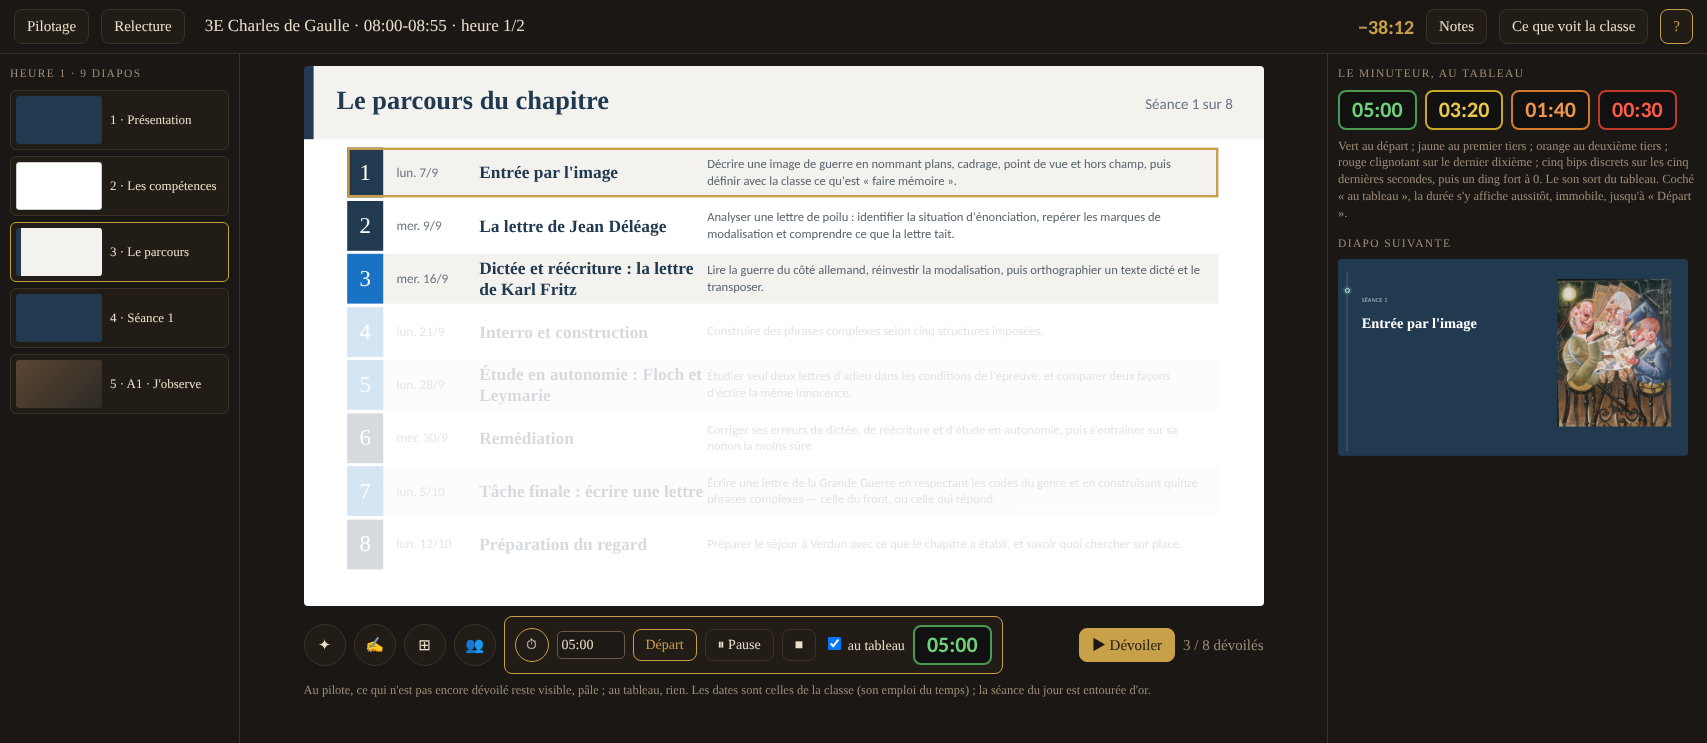
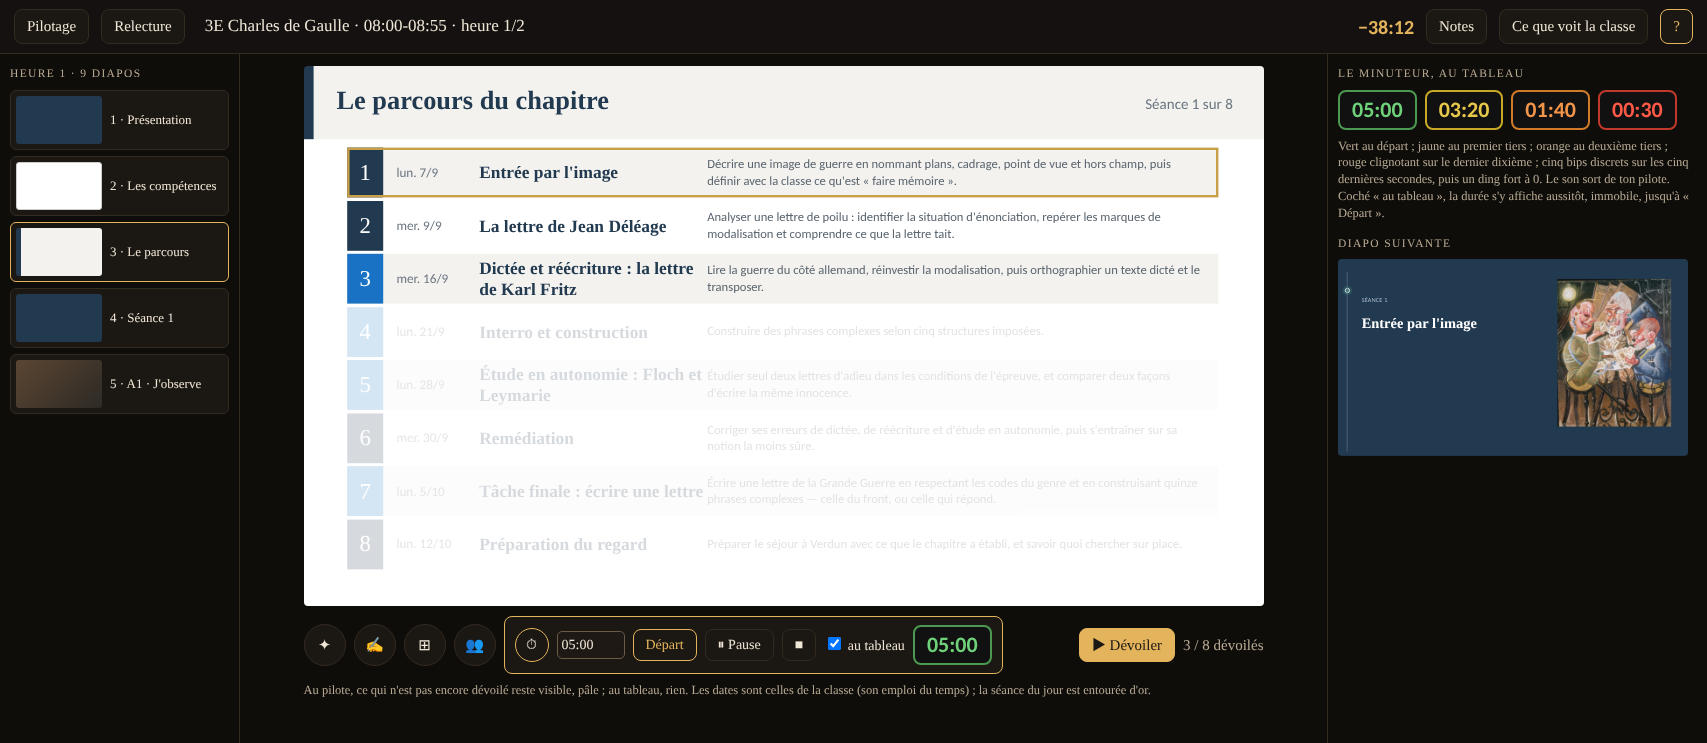
C13 tour 352 : les vraies couleurs du site ; captures refaites ; le son du pilote
Claude-Session: https://claude.ai/code/session_01FmzsMHBMC1WuguNe8MTJi3

Changed region(s): [[0.7762, 0.2167, 0.9936, 0.3096], [0.621, 0.8358, 0.7141, 0.8977]]

diff --git a/MANDATS/CANONS-DIAPOS/captures-29-10/site.html b/MANDATS/CANONS-DIAPOS/captures-29-10/site.html
@@ -1,9 +1,9 @@
 <!doctype html>
 <html lang="fr"><head><meta charset="utf-8"><title>Diapos d'ouverture dans le site</title>
 <style>
-:root{--f:#1b1714;--p:#221c17;--b:#3d3127;--or:#c9a04a;--t:#eadfca;--m:#9d8d77;--v:#6fae6a;--r:#c0573f;--nuit:#223a50;--clair:#a9b8c6;--teal:#3d7a74;--vif:#1a72c4}
-*{box-sizing:border-box}html,body{margin:0;height:100%;background:var(--f);color:var(--t);font:15px/1.35 Georgia,"Liberation Serif",serif}
-.haut{display:flex;align-items:center;gap:12px;padding:9px 14px;border-bottom:1px solid var(--b);height:54px}
+:root{--f:#0f0d0a;--p:#1b1712;--b:#332a20;--or:#e4b45c;--t:#efe6d6;--m:#b9ab94;--v:#6fae6a;--r:#c0573f;--nuit:#223a50;--clair:#a9b8c6;--teal:#3d7a74;--vif:#1a72c4}
+*{box-sizing:border-box}html,body{margin:0;height:100%;background:var(--f);color:var(--t);font:15px/1.35 "EB Garamond",Georgia,"Liberation Serif",serif}
+.haut{display:flex;align-items:center;gap:12px;padding:9px 14px;border-bottom:1px solid var(--b);height:54px;background:#141110}
 .btn{border:1px solid var(--b);background:var(--p);color:var(--t);border-radius:8px;padding:6px 12px;font:inherit;white-space:nowrap}
 .btn.or{border-color:var(--or);color:var(--or)}.btn.on{background:var(--or);color:#1b1714;border-color:var(--or)}
 .m{color:var(--m)}.esp{flex:1}
@@ -110,7 +110,7 @@
   <div class="tit">Le minuteur, au tableau</div>
   <div style="display:flex;gap:8px;flex-wrap:wrap;align-items:center">
    <span class="chr">05:00</span><span class="chr" style="border-color:#c9a827;color:#e8c84a">03:20</span><span class="chr" style="border-color:#d07a2a;color:#f0954a">01:40</span><span class="chr" style="border-color:#c0392b;color:#ff5a48">00:30</span></div>
-  <div class="note">Vert au départ ; jaune au premier tiers ; orange au deuxième tiers ; rouge clignotant sur le dernier dixième ; cinq bips discrets sur les cinq dernières secondes, puis un ding fort à 0. Le son sort du tableau. Coché « au tableau », la durée s'y affiche aussitôt, immobile, jusqu'à « Départ ».</div>
+  <div class="note">Vert au départ ; jaune au premier tiers ; orange au deuxième tiers ; rouge clignotant sur le dernier dixième ; cinq bips discrets sur les cinq dernières secondes, puis un ding fort à 0. Le son sort de ton pilote. Coché « au tableau », la durée s'y affiche aussitôt, immobile, jusqu'à « Départ ».</div>
   <div class="tit" style="margin-top:14px">Diapo suivante</div>
   <div class="cadre" style="width:350px;height:197px"><div class="d p4" style="transform:scale(.21875)"><div class="pt"></div><div class="fil"></div><div class="g"><div class="k">SÉANCE 1</div><h1 class="serif">Entrée par l'image</h1></div><img src="img-seance.png"></div></div>
  </div>

diff --git a/MANDATS/PROFIL-CLASSE/captures-29-10/profil-classe.html b/MANDATS/PROFIL-CLASSE/captures-29-10/profil-classe.html
@@ -1,9 +1,9 @@
 <!doctype html>
 <html lang="fr"><head><meta charset="utf-8"><title>Profil de la classe — captures construites</title>
 <style>
-:root{--f:#1b1714;--p:#221c17;--p2:#2a221b;--b:#3d3127;--or:#c9a04a;--t:#eadfca;--m:#9d8d77;--v:#6fae6a;--r:#c0573f;--g:#5a5048}
-*{box-sizing:border-box}html,body{margin:0;height:100%;background:var(--f);color:var(--t);font:15px/1.35 Georgia,"Liberation Serif",serif}
-.haut{display:flex;align-items:center;gap:14px;padding:10px 16px;border-bottom:1px solid var(--b);height:58px}
+:root{--f:#0f0d0a;--p:#1b1712;--p2:#241e17;--b:#332a20;--or:#e4b45c;--t:#efe6d6;--m:#b9ab94;--v:#6fae6a;--r:#c0573f;--g:#5a5048}
+*{box-sizing:border-box}html,body{margin:0;height:100%;background:var(--f);color:var(--t);font:15px/1.35 "EB Garamond",Georgia,"Liberation Serif",serif}
+.haut{display:flex;align-items:center;gap:14px;padding:10px 16px;border-bottom:1px solid var(--b);height:58px;background:#141110}
 .btn{border:1px solid var(--b);background:var(--p);color:var(--t);border-radius:8px;padding:7px 13px;font:inherit;white-space:nowrap}
 .btn.or{border-color:var(--or);color:var(--or)}.btn.plein{background:var(--or);color:#1b1714;border-color:var(--or)}
 h1{font-size:21px;margin:0;font-weight:normal}h1 small{color:var(--m);font-size:14px;margin-left:8px}

diff --git a/MANDATS/INTEGRATION-DEROULE/CONTRAT.md b/MANDATS/INTEGRATION-DEROULE/CONTRAT.md
@@ -395,6 +395,6 @@ Puis il continue sans attendre : il code ce qui n'est pas contesté ; ce qui est
 67. **Les diapos d'ouverture au canon (Paul, 29/10 09:54, trois images ; 10:07 : « C'est surtout l'UI qu'il faut reproduire au mieux donc ce sont de nouveaux types de diapo à créer et le prompt d'injection à adapter. Oui à tout après, sauf 996, la phrase élève, pas l'intitulé officiel évidemment » ; C13 989-997).** Les canons : `MANDATS/CANONS-DIAPOS/` (1 la présentation du chapitre, 2 les compétences du chapitre, 3 le parcours du chapitre ; le canon de la séance est à venir, 997). (1) **De nouveaux types de diapo**, qui reproduisent l'interface du canon au plus près, posés par le site comme les diapos d'ouverture de §12.62 (3), qu'ils remplacent : hors activité, 0 minute, retirables, modifiables (Paul écrit dedans ; une fois modifiée, la diapo est à lui). (2) **La présentation du chapitre** : fond bleu nuit ; « Chapitre n — niveau » ; le titre ; la question du chapitre ; l'entrée du programme et les dates ; l'image du chapitre à droite, pleine hauteur, posée par Paul sur la diapo. (3) **Les compétences du chapitre** : par domaine, chacun sa couleur (Lire, Écrire, La langue, La culture et l'oral), séance par séance (S1 à Sn), majeure (foncé) ou mineure (clair) ; chaque compétence nommée par **sa phrase d'élève** (`libelleEleve`), jamais l'intitulé officiel (996 ; 13 · 91). (4) **Le parcours du chapitre** : « Séance n sur N » ; chaque séance numérotée, son titre, sa phrase ; **les séances évaluées en bleu vif** (995). (5) **Le prompt d'injection** (`MANDATS/PROMPT-INJECTION/`) écrit la phrase de chaque séance, met la compétence majeure de chaque séance en premier, et marque les séances évaluées ; l'import les lit. (6) **Les dates** : calculées par l'emploi du temps de la classe dans la copie de classe ; dans l'Atelier, « selon la classe » (994). (7) **Début de séance** (canon `4-seance.png`, Paul 10:17) : fond bleu nuit ; le fil vertical à gauche avec son point ; « SÉANCE n » ; le titre ; un trait ; « Objectif : » et la phrase de la séance ; « COMPÉTENCES DE LA SÉANCE » et n carrés (la séance du jour allumée) ; les compétences de la séance, la majeure en gras, chacune son carré de la couleur de son domaine (foncé la majeure, clair les mineures), nommées par la phrase d'élève ; l'image de la séance à droite, posée par Paul. Captures construites : `MANDATS/CANONS-DIAPOS/captures-29-10/` (Paul, 10:17 : « je veux d'abord des captures construites de ce que ça donnerait »). 13 · 91 (la phrase d'élève, aussi sur la feuille sommaire) part avec ce morceau. (8) **Proposé (C13 1016-1020, Paul 10:28 : « éventuellement de me proposer de créer d'autres fonctionnalités pour supporter ces nouveaux types de diapos »)** : le dévoilement au clic (le parcours ligne par ligne, les compétences domaine par domaine, la séance : l'objectif puis les compétences une à une ; seul le fil de progression bouge de lui-même) ; dans la copie de classe, la date de chaque séance pour la classe, la séance du jour entourée d'or, les séances faites cochées ; la carte « Ce que la diapo déclare » montre les champs de ces types (titre, objectif, la majeure ★, séance évaluée, image) — ce qui s'y change change le chapitre et la feuille sommaire ; l'image du chapitre et de chaque séance choisie une fois (clé USB ou en ligne), reprise partout ; en fin de chapitre, « Les compétences du chapitre » en bilan pour la classe (cases jouées cochées). Captures dans le site : `MANDATS/CANONS-DIAPOS/captures-29-10/6-atelier-debut-de-seance.png`, `7-pilotage-parcours-minuteur.png`.
 68. **Annuler une heure lancée par erreur (Paul, 29/10 09:54 : « imaginons que je lance une heure pas au bon moment, il faut que je puisse la fermer et qu'elle ne compte pas comme jouée ni rien du tout. le site oublierait tout ce que j'y ai fait » ; C13 990-991, « Oui à tout » 10:07).** Dans le pilotage, « Annuler cette heure », jusqu'à la clôture, avec une confirmation qui dit ce qui sera oublié. Le site oublie tout ce que l'heure a écrit : la copie de cette heure, le journal, le récit, la participation, les absents, l'heure en cours (`/site/cours_actif`), la scène du tableau distant ; l'emploi du temps ne bouge pas (l'heure ne compte pas comme jouée) ; le tableau distant revient à l'horloge. La réactivation construite à la clôture d'avant reste. « Ce que la classe a vu ne change plus » ne vaut pas pour une heure annulée. Infobulle pour Paul. Banc par le geste, mode test et heure réelle sur faux hub.
 69. **La relecture dans le profil de la classe (Paul, 29/10 09:54 ; C13 989, « Oui » 10:07).** « Relire l'heure » (la confirmation de clôture, le pilotage d'une heure close) ouvre le profil de la classe sur cette heure : le récit, ce qui s'est passé, le papier, la revue du chapitre pour cette classe. Avec le profil de la classe (`MANDATS/PROFIL-CLASSE/`, captures du 29/10).
-70. **Le minuteur au tableau (Paul, 29/10 10:17 : « le chrono au tableau. actuellement c'est une bande en bas de l'écran. ça ne doit pas être ça, mais être en haut à droite du tableau, en or et noir. […] il y a un lag entre le pilotage et le tableau distant (typiquement sur le chrono au tableau, ça impacte forcément parce que trois secondes sont toujours mangées). […] dès que je clique sur au tableau, ça doit s'afficher au tableau, même si ce n'est pas parti. […] il manque une option de pause » ; C13 1002-1007).** Mesuré dans la ⑨ : le minuteur au tableau est le texte « ⏱ mm:ss » du bandeau (`S.bandeau`), recalculé par le pilote chaque seconde et renvoyé (`dr_minuteurTic` → `pousser`, `dr_sceneAuto` 250 ms) ; le tableau distant lit la scène toutes les 0,9 s (`dr_tabSonder`) ; « au tableau » ne fait rien tant que le minuteur n'est pas parti (`onchange` sans `DR_CL.minut`) ; pas de pause (Départ, ■). (1) En haut à droite du tableau, chiffres or sur fond noir, aucun mot ; plus de bandeau. (2) « au tableau » coché : la durée réglée s'affiche aussitôt, immobile ; « Départ » la fait courir. (3) « ⏸ Pause » / « ▶ Reprendre » au pilote ; au tableau, les chiffres s'arrêtent. (4) Le pilote envoie une fois la fin, la durée et la pause ; chaque tableau compte avec sa propre horloge, recalée sur celle du pilote. (6) **Un seul minuteur, sous la diapo** (Paul, 10:20 : « il y a un doublon: le chrono en bas du pilotage, et le chrono en haut!! celui d'en bas met 7 minutes instantanés » ; 13 · 92) : le ⏱ sous la diapo (`#bchrono`) devient le vrai minuteur (durée, Départ, Pause, au tableau, ■) ; le ⏱ de l'en-tête (`#dr-minut-b`) et le « ⏱ 07:00 » en dur (`basculerChrono`) tombent. (7) **Les couleurs et le son** (Paul, 10:28 : « en fonction du temps donné au chrono, il doit être en vert au début, puis passer en jaune à un tiers du temps, puis orange, puis rouge clignotant, et sonner les 5 dernières secondes discrètement, puis un ding fort sur la fin arrivé au 0 ») : vert, jaune au premier tiers, orange au deuxième tiers, rouge clignotant sur le dernier dixième (proposé, C13 1013) ; cinq bips discrets sur les cinq dernières secondes, un ding fort à 0 ; le son sort du tableau (le navigateur exige un clic sur la page du tableau avant tout son : le clic de la clé USB, ou un clic n'importe où). (5) Le tableau distant écoute le hub en continu (le flux de Firebase, gratuit) au lieu de le lire toutes les 0,9 s : les diapos et le reste arrivent aussitôt. Infobulles pour Paul ; banc à deux navigateurs, écart mesuré.
+70. **Le minuteur au tableau (Paul, 29/10 10:17 : « le chrono au tableau. actuellement c'est une bande en bas de l'écran. ça ne doit pas être ça, mais être en haut à droite du tableau, en or et noir. […] il y a un lag entre le pilotage et le tableau distant (typiquement sur le chrono au tableau, ça impacte forcément parce que trois secondes sont toujours mangées). […] dès que je clique sur au tableau, ça doit s'afficher au tableau, même si ce n'est pas parti. […] il manque une option de pause » ; C13 1002-1007).** Mesuré dans la ⑨ : le minuteur au tableau est le texte « ⏱ mm:ss » du bandeau (`S.bandeau`), recalculé par le pilote chaque seconde et renvoyé (`dr_minuteurTic` → `pousser`, `dr_sceneAuto` 250 ms) ; le tableau distant lit la scène toutes les 0,9 s (`dr_tabSonder`) ; « au tableau » ne fait rien tant que le minuteur n'est pas parti (`onchange` sans `DR_CL.minut`) ; pas de pause (Départ, ■). (1) En haut à droite du tableau, chiffres or sur fond noir, aucun mot ; plus de bandeau. (2) « au tableau » coché : la durée réglée s'affiche aussitôt, immobile ; « Départ » la fait courir. (3) « ⏸ Pause » / « ▶ Reprendre » au pilote ; au tableau, les chiffres s'arrêtent. (4) Le pilote envoie une fois la fin, la durée et la pause ; chaque tableau compte avec sa propre horloge, recalée sur celle du pilote. (6) **Un seul minuteur, sous la diapo** (Paul, 10:20 : « il y a un doublon: le chrono en bas du pilotage, et le chrono en haut!! celui d'en bas met 7 minutes instantanés » ; 13 · 92) : le ⏱ sous la diapo (`#bchrono`) devient le vrai minuteur (durée, Départ, Pause, au tableau, ■) ; le ⏱ de l'en-tête (`#dr-minut-b`) et le « ⏱ 07:00 » en dur (`basculerChrono`) tombent. (7) **Les couleurs et le son** (Paul, 10:28 : « en fonction du temps donné au chrono, il doit être en vert au début, puis passer en jaune à un tiers du temps, puis orange, puis rouge clignotant, et sonner les 5 dernières secondes discrètement, puis un ding fort sur la fin arrivé au 0 ») : vert, jaune au premier tiers, orange au deuxième tiers, rouge clignotant sur le dernier dixième (proposé, C13 1013) ; cinq bips discrets sur les cinq dernières secondes, un ding fort à 0 ; le son sort du pilote (Paul, 10:36 : « 1014. si, de mon pilote »). (5) Le tableau distant écoute le hub en continu (le flux de Firebase, gratuit) au lieu de le lire toutes les 0,9 s : les diapos et le reste arrivent aussitôt. Infobulles pour Paul ; banc à deux navigateurs, écart mesuré.
 71. **La participation à 0 élève au tableau distant (Paul, 29/10 10:18 : « pour la participation, elle ne s'affiche pas au tableau distant quand c'est 0 élève. il le faut »).** Lu dans la ⑨ : le rendu du tableau écrit « 0 élève sur N ont participé · personne pour l'instant » quand il reçoit une liste vide (`et.qui`) ; le hub ne garde pas une liste vide, donc le tableau distant ne reçoit rien. Envoyer la participation de façon que zéro arrive aussi (un drapeau, ou un objet non vide). Banc à deux navigateurs, 0 élève puis 1.
 MEMO

diff --git a/TRANSCRIPTS/C13/TRANSCRIPT-C13.md b/TRANSCRIPTS/C13/TRANSCRIPT-C13.md
@@ -7423,3 +7423,28 @@ MEMO
 
 29/10/2026 10:30
 MEMO
+
+## Tour 352 — 29/10/2026 10:36 → 10:37
+
+**Paul :** 1014. si, de mon pilote. ok pour le reste, sauf le fond et les couleurs, ça sort d'où?
+
+**Mesuré.** Les vraies couleurs du site, dans la ⑨ (`:root`) : fond `#0f0d0a`, cartes `#1b1712` et `#241e17`, bords `#332a20` et `#4a3d2f`, texte `#efe6d6` et `#b9ab94`, or `#e4b45c` ; l'en-tête `#141110` ; la police EB Garamond. Le pilote et l'Atelier sont la même zone (`#dr-zone`), avec les mêmes couleurs. Les captures 6 et 7 et celles du profil de la classe sont refaites avec ces couleurs. Contrat §12.70 (7) : le son sort du pilote.
+
+**Claude :**
+
+À jouer : les tests de la ⑨ (liste de 09:01) · en cours : rien · ouvert : 1026 ; 1008 ; 1001 ; 979 à 988 ; 905 à 917 (les questions de la lettre).
+
+1022. 1014 : entendu, le son sort de ton pilote. C'est corrigé au contrat.
+
+1023. Le fond et les couleurs autour des diapos : je les avais pris à l'œil sur ta capture du pilotage d'hier, pas dans le code. Ils étaient proches, mais faux.
+
+1024. Mesuré maintenant dans le site : le fond est presque noir, les cartes brun sombre, le texte crème, l'or plus clair que le mien, et la police est EB Garamond. Le pilote et l'Atelier ont les mêmes couleurs. Les captures 6 et 7, et celles du profil de la classe, sont refaites avec les vraies.
+
+1025. Les couleurs des diapos elles-mêmes (le bleu nuit, le vert d'eau, le violet, l'ocre, le rouge, le bleu vif) viennent de tes canons, relevées à l'œil. Celles du minuteur sont tes mots (vert, jaune, orange, rouge) ; les nuances sont de moi.
+
+1026. Si tu as les fichiers de tes canons (PowerPoint), je prends les couleurs exactes dedans.
+
+À tester : la liste de la ⑨ de 09:01 tient.
+
+29/10/2026 10:37
+MEMO
